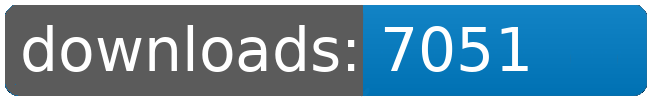
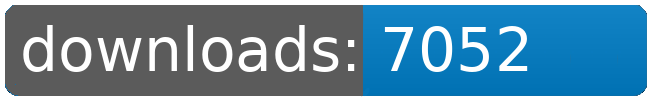
dl log written

Changed region(s): [[0.7692, 0.24, 0.8308, 0.69]]

diff --git a/README.md b/README.md
@@ -76,8 +76,8 @@
 		<td>7751</td>
 		<td>7773</td>
 		<td>7792</td>
-		<td>7805</td>
-		<td>+ 13</td>
+		<td>7806</td>
+		<td>+ 14</td>
 	</tr>
 	<tr>
 		<td>Sheragi.Rebirth.Redux</td>
@@ -98,8 +98,8 @@
 		<td>6999</td>
 		<td>7019</td>
 		<td>7039</td>
-		<td>7051</td>
-		<td>+ 12</td>
+		<td>7052</td>
+		<td>+ 13</td>
 	</tr>
 	<tr>
 		<td>Zone.of.Control</td>
@@ -120,8 +120,8 @@
 		<td></td>
 		<td></td>
 		<td></td>
-		<td>59422</td>
-		<td>99</td>
+		<td>59424</td>
+		<td>101</td>
 	</tr>
 </table>
 </sub></sup>
@@ -168,8 +168,8 @@
 		<td>7751</td>
 		<td>7773</td>
 		<td>7792</td>
-		<td>7805</td>
-		<td>+ 13</td>
+		<td>7806</td>
+		<td>+ 14</td>
 	</tr>
 	<tr>
 		<td>Korunak.Defense.Drones</td>
@@ -201,8 +201,8 @@
 		<td>6999</td>
 		<td>7019</td>
 		<td>7039</td>
-		<td>7051</td>
-		<td>+ 12</td>
+		<td>7052</td>
+		<td>+ 13</td>
 	</tr>
 	<tr>
 		<td>Jaws</td>
@@ -245,8 +245,8 @@
 		<td></td>
 		<td></td>
 		<td></td>
-		<td>59422</td>
-		<td>99</td>
+		<td>59424</td>
+		<td>101</td>
 	</tr>
 </table>
 </sub></sup>
